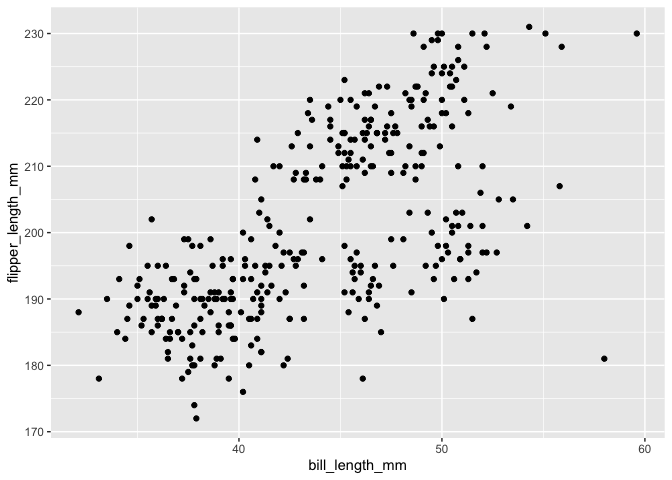
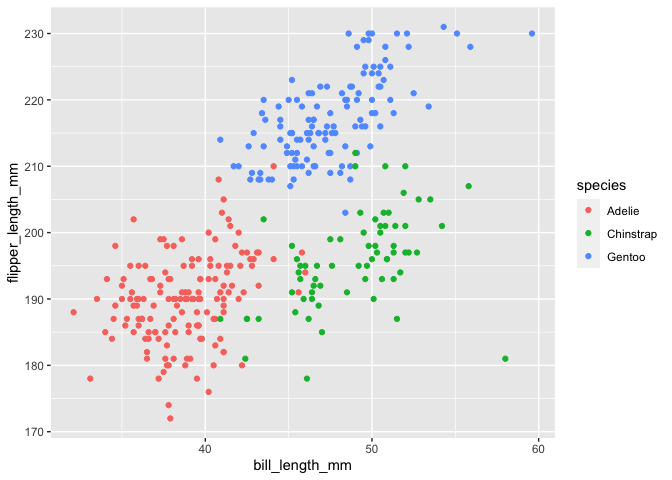
print penguin_plot and set warning = FALSE

diff --git a/p8105_hw1_ac4964.md b/p8105_hw1_ac4964.md
@@ -74,6 +74,13 @@ mean of character vector and factor vector and therefore returning NA.
 ``` r
 # Apply as.numeric function to the logical, character, and factor variables.
 
+as.numeric(pull(samp_df,samp))
+```
+
+    ##  [1] -0.6264538  0.1836433 -0.8356286  1.5952808  0.3295078 -0.8204684
+    ##  [7]  0.4874291  0.7383247  0.5757814 -0.3053884
+
+``` r
 as.numeric(pull(samp_df,greater_than_0))
 ```
 
@@ -104,12 +111,9 @@ correspond to the levels of the factor. Therefore, it returns “1” for
 \#Problem 2
 
 ``` r
+#loads penguins dataset
 data("penguins",package = "palmerpenguins")
-
-mean(pull(penguins,flipper_length_mm),na.rm = TRUE)
 ```
-
-    ## [1] 200.9152
 
 The name of this dataset is called “Size measurements for adult foraging
 penguins near Palmer Station, Antarctica”, and it is a subset of
@@ -126,9 +130,13 @@ flipper length of the penguins in this dataset is 200.9152047mm.
 
 penguin_plot <- ggplot(penguins, aes(x = bill_length_mm, y = flipper_length_mm, color = species)) + geom_point()
 
+penguin_plot
+```
+
+![](p8105_hw1_ac4964_files/figure-gfm/unnamed-chunk-6-1.png)<!-- -->
+
+``` r
 ggsave("Penguin_scatterplot.pdf", plot = penguin_plot)
 ```
 
     ## Saving 7 x 5 in image
-
-    ## Warning: Removed 2 rows containing missing values (geom_point).
